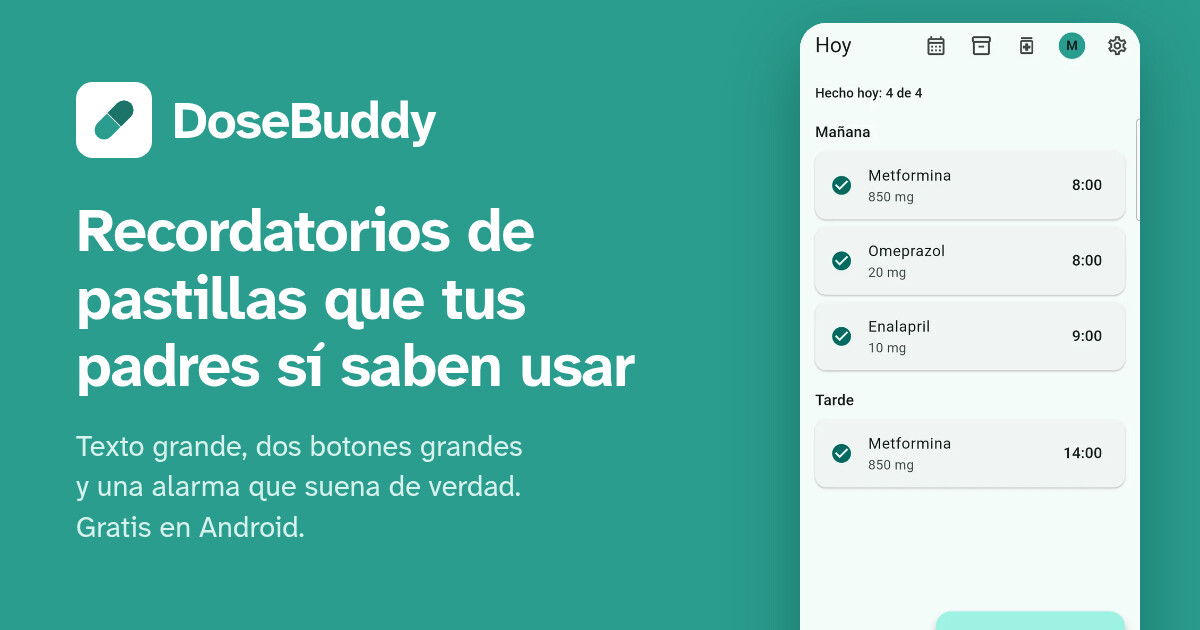
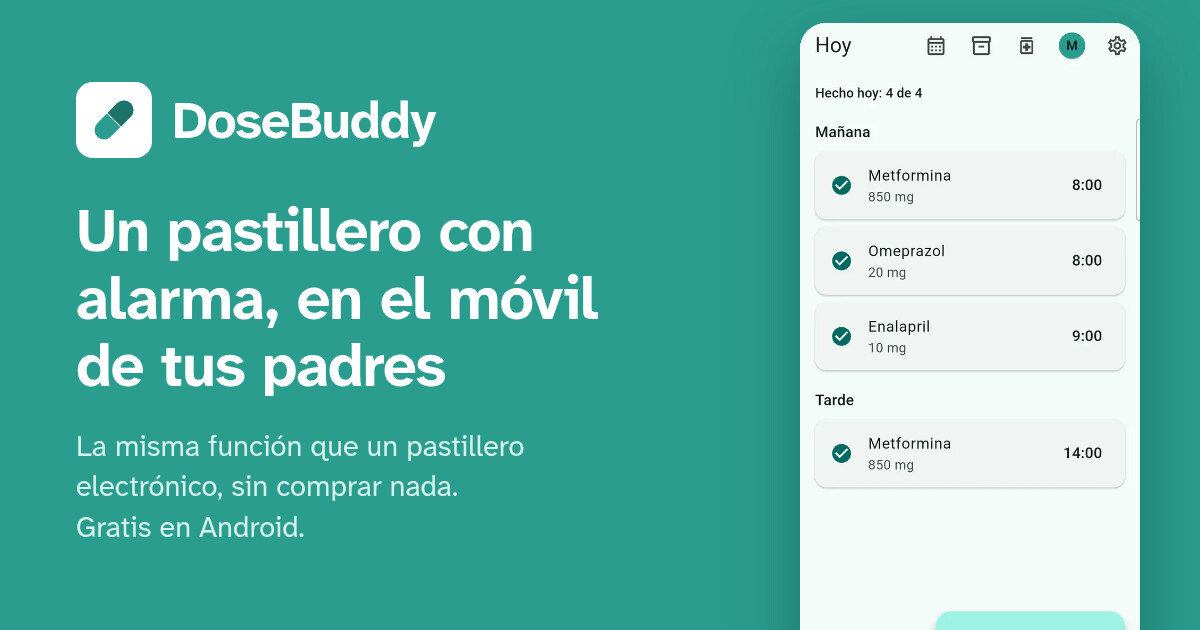
feat: retarget titles on measured demand, enter Spanish through "pastillero"
Owner ran the Trends comparisons that rate-limited me, and the related-query
view corrected my own reading of them.

English
"medication alarm" scores 52, but its related queries are "alarm clock" and
"how to test smoke alarm" (breakout), so that number is contaminated by generic
alarm intent and leading a title with it would pull the wrong traffic. The
clean signals inside it are "medication alarm app" (+40%, rising) and
"medication dispenser with alarm" (+4%). Title now carries both real clusters:
"Medication Reminder & Alarm App for Elderly Parents". "Free" moves to the
description, where it still shows in the snippet; as a standalone phrase it
scores 1.

Spanish
Every app-shaped phrasing measures 0 in Spain. Only "pastillero" has volume
(73), and inside it sits the branch that is literally our product: "pastillero
inteligente" (+20%), "pastillero electronico", "pastillero con alarma". People
are shopping for a box that reminds them; we are that function, free, on the
phone they already own. Title, H1, lead, description and OG card now say so.

Both languages gain an FAQ entry answering the bridge question directly (how
this differs from a pill box), which is also the honest answer to why someone
searching for hardware should look at an app.

Changed region(s): [[0.0617, 0.3317, 0.5242, 0.6333], [0.0617, 0.754, 0.4317, 0.8143], [0.0617, 0.6937, 0.4317, 0.7238]]

diff --git a/es/index.html b/es/index.html
@@ -3,8 +3,8 @@
 <head>
 <meta charset="utf-8">
 <meta name="viewport" content="width=device-width, initial-scale=1">
-<title>Recordatorio de pastillas para mayores, gratis - DoseBuddy</title>
-<meta name="description" content="Recordatorio gratis de pastillas y medicamentos para personas mayores. Texto enorme, dos botones grandes y alarma a pantalla completa. Solo Android.">
+<title>Pastillero con alarma en el móvil, gratis - DoseBuddy</title>
+<meta name="description" content="El pastillero con alarma que cabe en el móvil: texto enorme, dos botones grandes y un aviso a pantalla completa hasta confirmar la toma. Gratis en Android.">
 
 <link rel="canonical" href="https://dosebuddyapp.com/es/">
 <link rel="alternate" hreflang="en" href="https://dosebuddyapp.com/">
@@ -16,12 +16,12 @@
 <meta property="og:locale" content="es">
 <meta property="og:locale:alternate" content="en">
 <meta property="og:url" content="https://dosebuddyapp.com/es/">
-<meta property="og:title" content="Recordatorio de pastillas para mayores, gratis - DoseBuddy">
-<meta property="og:description" content="Recordatorio gratis de pastillas y medicamentos: texto grande, dos botones grandes y una alarma que suena de verdad. Para el padre o la madre de quien cuidas.">
+<meta property="og:title" content="Pastillero con alarma en el móvil, gratis - DoseBuddy">
+<meta property="og:description" content="La misma función que un pastillero electrónico, en el móvil que tus padres ya tienen: texto grande, dos botones y una alarma que suena de verdad. Gratis.">
 <meta property="og:image" content="https://dosebuddyapp.com/img/og-es.jpg">
 <meta property="og:image:width" content="1200">
 <meta property="og:image:height" content="630">
-<meta property="og:image:alt" content="DoseBuddy: recordatorios de pastillas que tus padres sí saben usar.">
+<meta property="og:image:alt" content="DoseBuddy: un pastillero con alarma en el móvil de tus padres.">
 <meta name="twitter:card" content="summary_large_image">
 
 <link rel="icon" href="/img/mark.svg" type="image/svg+xml">
@@ -69,6 +69,11 @@
       "@type": "Question",
       "name": "¿DoseBuddy es gratis?",
       "acceptedAnswer": { "@type": "Answer", "text": "Sí. La versión gratuita incluye un perfil y hasta tres medicamentos, con el motor de recordatorios completo: no se recorta nada de los avisos. Premium es un pago único, no una suscripción: quita el límite de medicamentos y añade pautas por intervalos, del tipo «cada ocho horas». El precio actual está en la ficha de Google Play." }
+    },
+    {
+      "@type": "Question",
+      "name": "¿En qué se diferencia de un pastillero?",
+      "acceptedAnswer": { "@type": "Answer", "text": "Un pastillero ordena las pastillas de la semana, pero no avisa. Los pastilleros electrónicos con alarma sí avisan, solo que hay que comprarlos y llevarlos encima. DoseBuddy hace lo mismo en el móvil que ya tienen: alarma a pantalla completa, repeticiones hasta que se confirma la toma y un historial al que volver." }
     },
     {
       "@type": "Question",
@@ -148,11 +153,12 @@
     <div class="wrap hero__grid">
       <div>
         <p class="eyebrow">Para quien cuida de un padre o una madre mayor</p>
-        <h1>Recordatorios de pastillas que tus padres sí saben usar</h1>
+        <h1>Un pastillero con alarma, en el móvil de tus padres</h1>
         <p class="hero__lead">
-          Tú añades los medicamentos una vez. Ellos ven una sola pantalla: la hora,
-          el medicamento y dos botones grandes. La alarma sigue sonando, en voz alta
-          y a pantalla completa, hasta que se confirma la toma.
+          La misma función que un pastillero electrónico, sin comprar nada. Tú añades
+          los medicamentos una vez; ellos ven una sola pantalla con la hora, el
+          medicamento y dos botones grandes. La alarma suena a pantalla completa y no
+          para hasta que se confirma la toma.
         </p>
 
         <div class="hero__cta">
@@ -384,6 +390,22 @@
               medicamentos y añade pautas por intervalos, del tipo «cada ocho
               horas». El precio actual está en la
               <a href="https://play.google.com/store/apps/details?id=com.everpine.dosebuddy" rel="noopener">ficha de Google Play</a>.
+            </p>
+          </div>
+        </details>
+
+        <details class="cell" name="faq">
+          <summary>¿En qué se diferencia de un pastillero?</summary>
+          <div class="faq__body">
+            <p>
+              Un pastillero ordena las pastillas de la semana, pero no avisa. Los
+              pastilleros electrónicos con alarma sí avisan, solo que hay que
+              comprarlos y llevarlos encima.
+            </p>
+            <p>
+              DoseBuddy hace lo mismo en el móvil que ya tienen: alarma a pantalla
+              completa, repeticiones hasta que se confirma la toma y un historial
+              al que volver.
             </p>
           </div>
         </details>

diff --git a/index.html b/index.html
@@ -3,8 +3,8 @@
 <head>
 <meta charset="utf-8">
 <meta name="viewport" content="width=device-width, initial-scale=1">
-<title>Free Medication Reminder for Elderly Parents - DoseBuddy</title>
-<meta name="description" content="A free medication reminder for the parent you look after. Huge text, two big buttons and a full-screen alarm that really rings. Android, no ads, no account.">
+<title>Medication Reminder &amp; Alarm App for Elderly Parents</title>
+<meta name="description" content="A free medication reminder and alarm for the parent you look after. Huge text, two big buttons, and it keeps ringing until the dose is confirmed. Android only.">
 
 <link rel="canonical" href="https://dosebuddyapp.com/">
 <link rel="alternate" hreflang="en" href="https://dosebuddyapp.com/">
@@ -16,8 +16,8 @@
 <meta property="og:locale" content="en">
 <meta property="og:locale:alternate" content="es">
 <meta property="og:url" content="https://dosebuddyapp.com/">
-<meta property="og:title" content="Free Medication Reminder for Elderly Parents - DoseBuddy">
-<meta property="og:description" content="A free medication reminder for the parent you look after: big text, two big buttons and a full-screen alarm that really rings.">
+<meta property="og:title" content="Medication Reminder &amp; Alarm App for Elderly Parents">
+<meta property="og:description" content="A free medication reminder and alarm for the parent you look after: big text, two big buttons, and it keeps ringing until the dose is confirmed.">
 <meta property="og:image" content="https://dosebuddyapp.com/img/og-en.jpg">
 <meta property="og:image:width" content="1200">
 <meta property="og:image:height" content="630">
@@ -68,6 +68,11 @@
       "@type": "Question",
       "name": "Is DoseBuddy free?",
       "acceptedAnswer": { "@type": "Answer", "text": "Yes. The free version covers one profile and up to three medications, with the complete reminder engine. Nothing about the reminding is held back. Premium is a one-time purchase, not a subscription: it lifts the medication limit and adds interval schedules such as every eight hours. The current price is shown on the Google Play listing." }
+    },
+    {
+      "@type": "Question",
+      "name": "How is this different from a pill box?",
+      "acceptedAnswer": { "@type": "Answer", "text": "A pill box organises the week, but it cannot remind anyone. Dispensers with a built-in alarm can, except they have to be bought and then carried around. DoseBuddy does the same job on the phone they already own: a full-screen alarm, repeats until the dose is confirmed, and a history you can look back at." }
     },
     {
       "@type": "Question",
@@ -383,6 +388,22 @@
               medication limit and adds interval schedules such as “every eight
               hours”. The current price is on the
               <a href="https://play.google.com/store/apps/details?id=com.everpine.dosebuddy" rel="noopener">Google Play listing</a>.
+            </p>
+          </div>
+        </details>
+
+        <details class="cell" name="faq">
+          <summary>How is this different from a pill box?</summary>
+          <div class="faq__body">
+            <p>
+              A pill box organises the week, but it cannot remind anyone.
+              Dispensers with a built-in alarm can, except they have to be bought
+              and then carried around.
+            </p>
+            <p>
+              DoseBuddy does the same job on the phone they already own: a
+              full-screen alarm, repeats until the dose is confirmed, and a
+              history you can look back at.
             </p>
           </div>
         </details>

diff --git a/tool/og-template.html b/tool/og-template.html
@@ -53,9 +53,9 @@
       <span>DoseBuddy</span>
     </div>
     <h1 class="en">Medication reminders your parent can actually use</h1>
-    <h1 class="es">Recordatorios de pastillas que tus padres sí saben usar</h1>
+    <h1 class="es">Un pastillero con alarma, en el móvil de tus padres</h1>
     <p class="en">Big text, two big buttons, an alarm that really rings. Free on Android.</p>
-    <p class="es">Texto grande, dos botones grandes y una alarma que suena de verdad. Gratis en Android.</p>
+    <p class="es">La misma función que un pastillero electrónico, sin comprar nada. Gratis en Android.</p>
   </div>
   <div class="shot"><img id="shot" src="" alt=""></div>
 <script>
